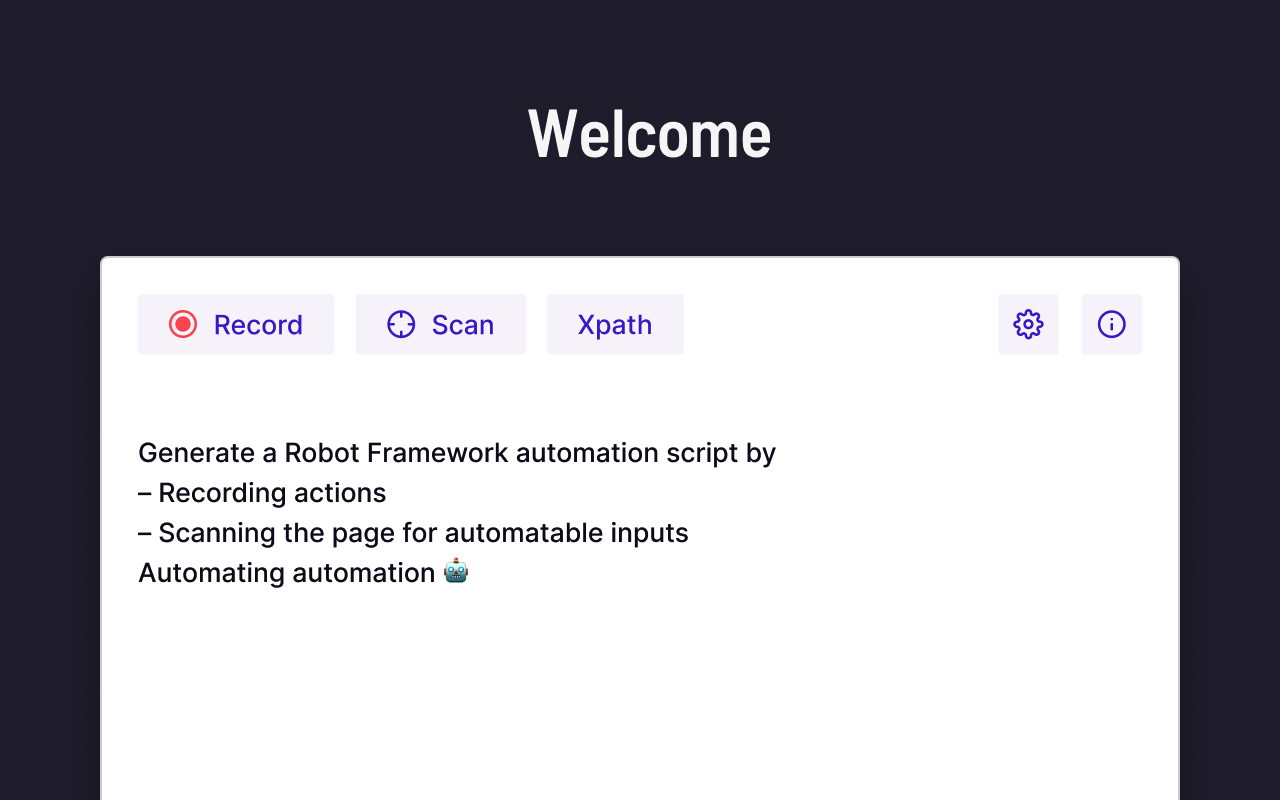
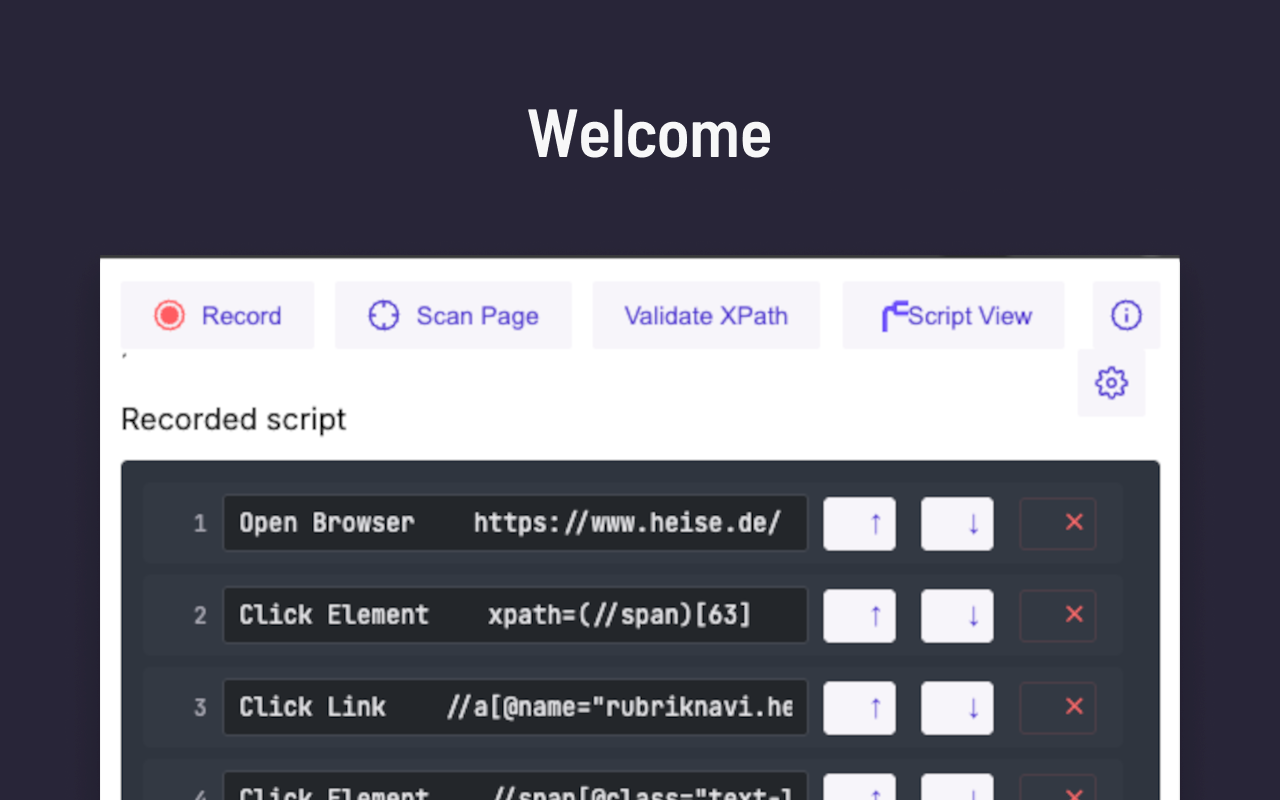
Removed unused analytics stuff. updated gitignore

diff --git a/src/popup.js b/src/popup.js
@@ -11,34 +11,6 @@ let introTour = null;
 let scriptLines = [];
 let nextLineId = 1;
 
-/*eslint-disable */
-/* 
-const gaAccount = 'UA-88380525-1';
-const version = '0.3.0';
-var _gaq = _gaq || [];
-_gaq.push(['_setAccount', gaAccount]);
-_gaq.push(['_trackPageview']);
-(function() {
-  var ga = document.createElement('script');
-  ga.type = 'text/javascript';
-  ga.async = true;
-  ga.src = 'https://ssl.google-analytics.com/ga.js';
-  var s = document.getElementsByTagName('script')[0];
-  s.parentNode.insertBefore(ga, s);
-})();
-*/
-/* eslint-enable */
-
-/*
-function analytics(data) {
-  const versionData = data;
-  if (gaAccount) {
-    versionData[2] = `${version} ${data[2]}`;
-    _gaq.push(versionData);
-    logger(gaAccount && versionData);
-  }
-}
-*/
 function analytics(_) {}
 
 // use centralized logger (imported above)
